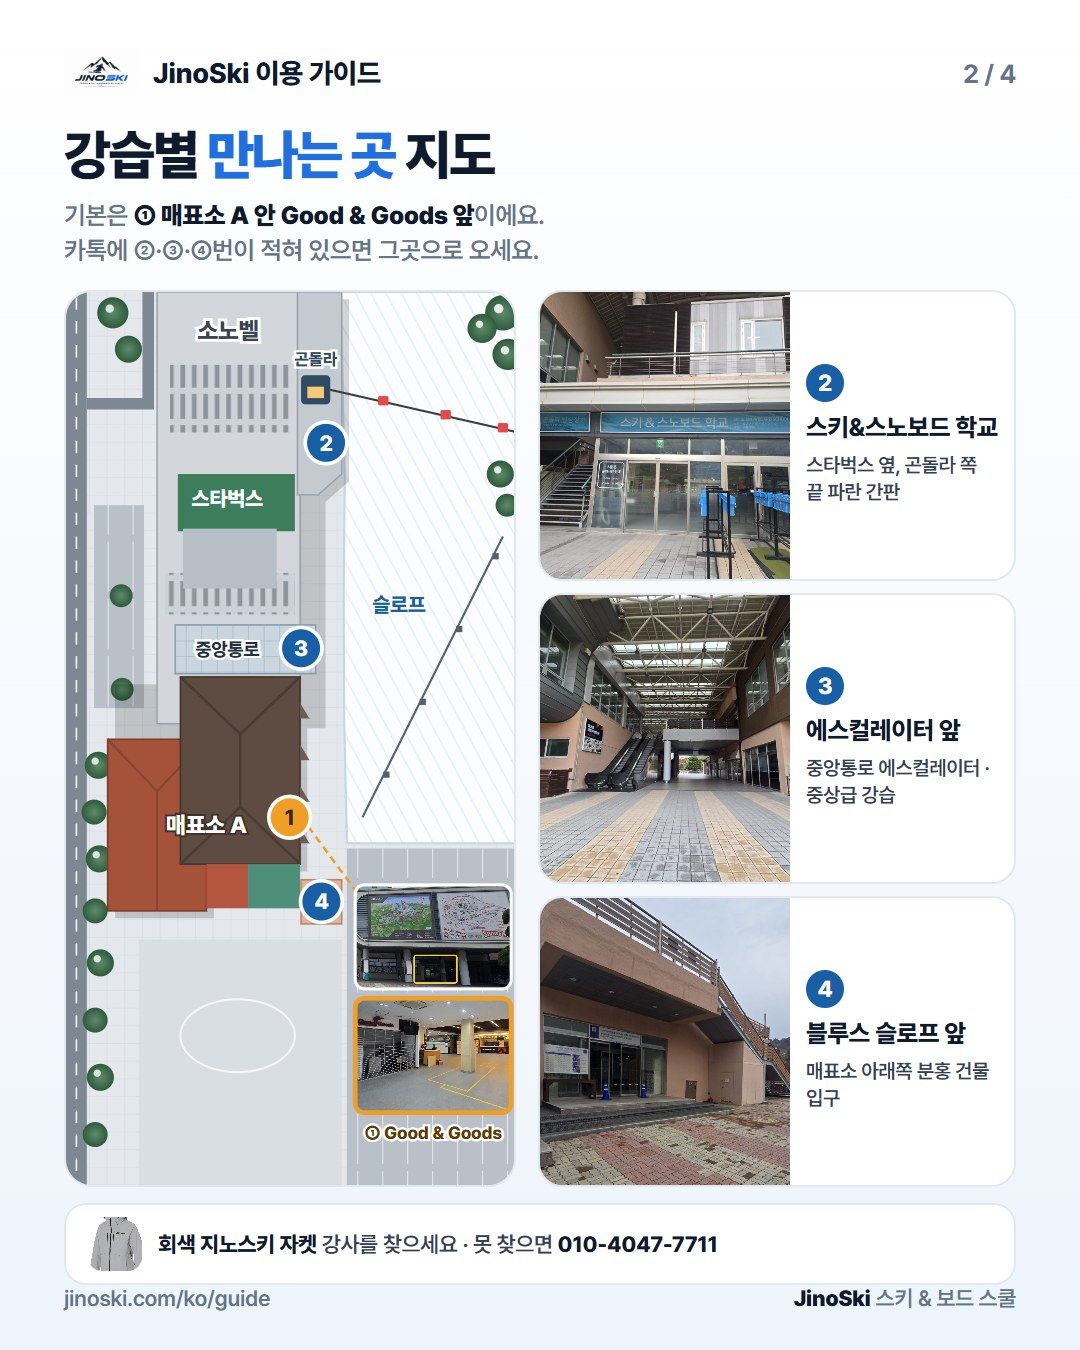
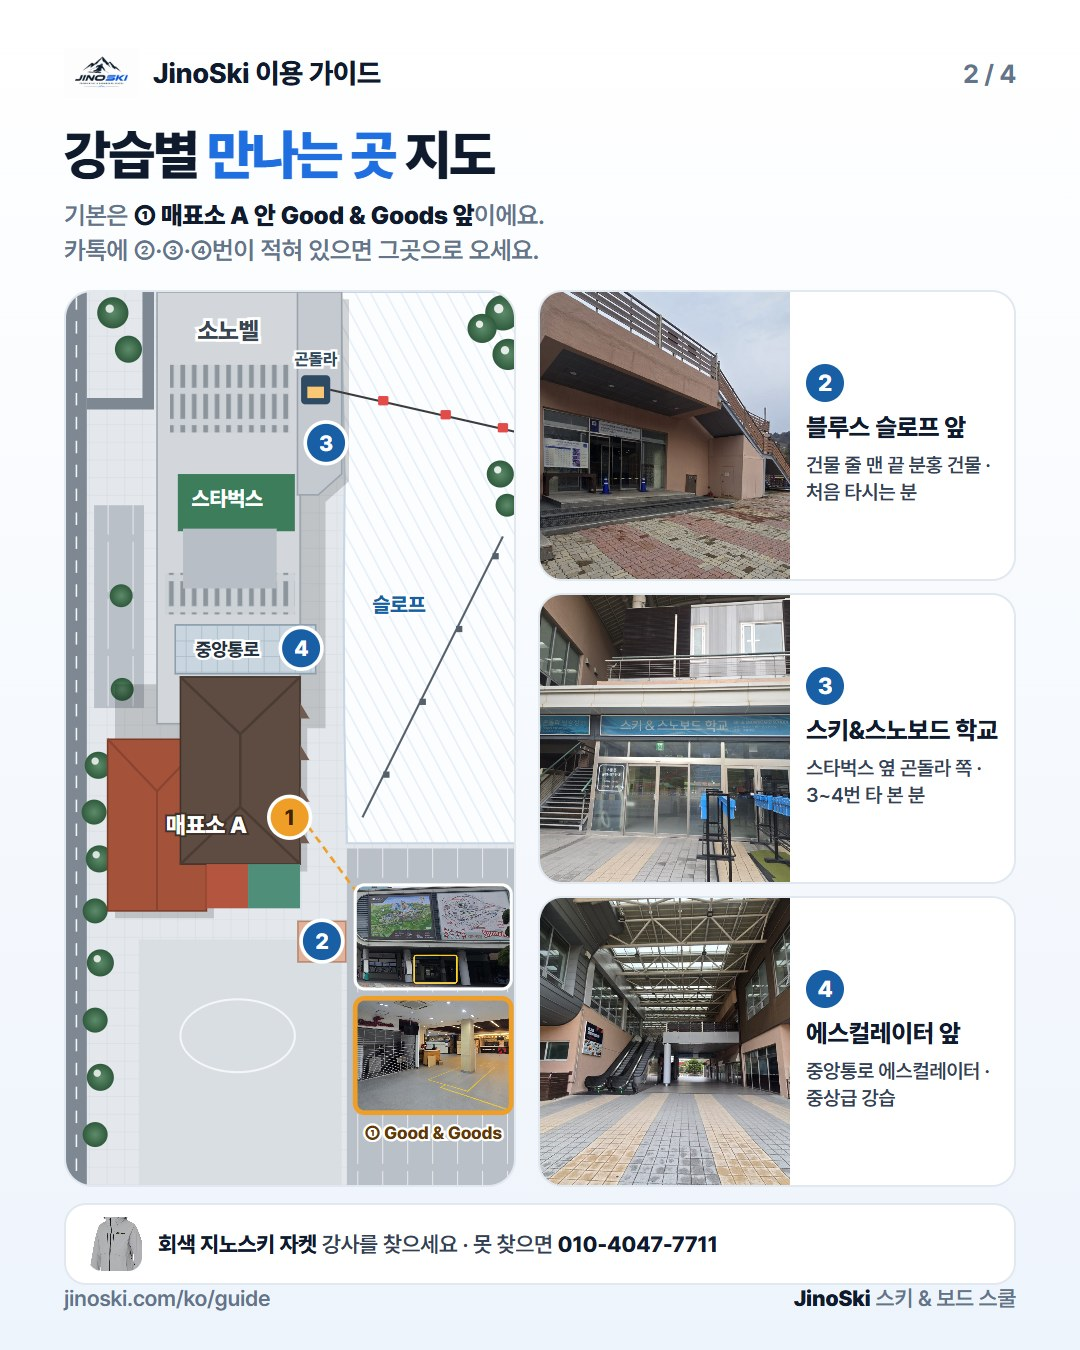
만나는 곳 지도: 번호를 운영앱과 같게(② 블루스 · ③ 스키학교 · ④ 에스컬레이터) · 블루스는 건물 줄 맨 끝

Changed region(s): [[0.4889, 0.2178, 0.9167, 0.9022], [0.275, 0.6533, 0.3361, 0.7156]]

diff --git a/src/components/shared/guide-cards.tsx b/src/components/shared/guide-cards.tsx
@@ -262,7 +262,7 @@ export const JUNIOR_CARDS: GuideCard[] = [
 
 export const VIVALDI_CARDS: GuideCard[] = [
   { src: "/images/guide/vivaldi-1.jpg", alt: "지노스키 집합 장소 — 비발디파크 시계탑 아래 매표소 A 문 안 Good & Goods(굿앤굿스) 앞(강원 홍천군 서면 한치골길 262), 레슨 20~30분 전 도착, 도착하면 카톡이나 010-4047-7711로 연락. 사진: 비발디파크 정면 시계탑 아래 두 기둥 사이 입구(노란 표시), 들어가면 바로 보이는 Good & Goods 가게. 강사는 회색 지노스키 자켓을 입고 있어요. 자가용·셔틀버스 오는 법" },
-  { src: "/images/guide/vivaldi-meet.jpg", alt: "강습별 만나는 곳 지도 — 기본은 ① 매표소 A 안 Good & Goods 앞. 카톡에 적힌 번호가 ②면 스타벅스 옆 곤돌라 쪽 끝 스키&스노보드 학교, ③이면 소노벨과 매표소 사이 중앙통로 에스컬레이터 앞(중상급 강습), ④면 매표소 아래쪽 블루스 슬로프 앞 건물 입구. 강사는 회색 지노스키 자켓, 못 찾으면 010-4047-7711" },
+  { src: "/images/guide/vivaldi-meet.jpg", alt: "강습별 만나는 곳 지도 — 기본은 ① 매표소 A 안 Good & Goods 앞. 카톡에 적힌 번호가 ②면 건물 줄 맨 끝 블루스 슬로프 앞(처음 타시는 분), ③이면 스타벅스 옆 곤돌라 쪽 스키&스노보드 학교(발라드·재즈 앞, 3~4번 타 본 분), ④면 소노벨과 매표소 사이 중앙통로 에스컬레이터 앞(테크노 앞, 중상급 강습). 강사는 회색 지노스키 자켓, 못 찾으면 010-4047-7711" },
   { src: "/images/guide/vivaldi-2.jpg", alt: "패찰·리프트권·장비 렌탈 안내 — 패찰(강습 허가권) 1인 2시간 25,000원·3시간 35,000원·4시간 50,000원, 레슨 뒤 더 타려면 개인 리프트권 필요, 아이 장비는 키·몸무게 알려주기, 리프트·장비 지노스키 예약 시 40% 할인" },
   { src: "/images/guide/vivaldi-3.jpg", alt: "스키 강습 준비물 — 방수 스키복, 장갑, 고글, 넥워머, 여벌 양말, 간식·물, 휴대폰 방수팩. 산 위는 영하 10도 이하인 날이 많아 여러 겹 입기, 폭설·강풍으로 슬로프가 닫히면 변경 또는 전액 환불" },
 ];
